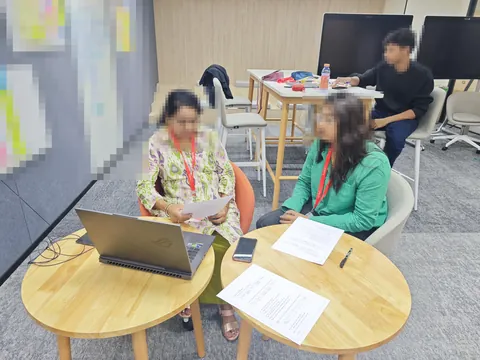
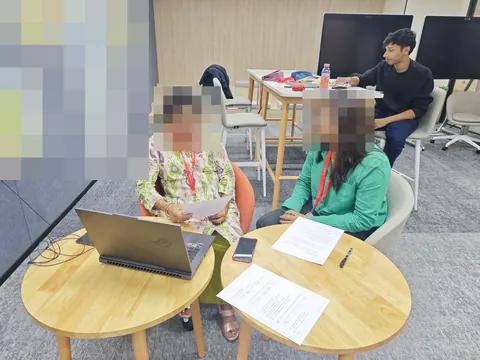
Live project photos: reveal Aritra in the room photo, coarser blur on others

diff --git a/scripts/stage2_publish.py b/scripts/stage2_publish.py
@@ -187,7 +187,7 @@ REBIT_PHOTOS = [  # key, file, crop (rel x0,y0,x1,y1; square rel box = 4:3 crop)
  ('think-aloud-close', '1736696037823.jpg', (0.05, 0.1, 0.95, 1.0), [(0.40, 0.05, 0.66, 0.34), (0.05, 0.40, 0.37, 0.75), (0.50, 0.0, 0.68, 0.22), (0.70, 0.34, 0.95, 0.90)], 'Close view of Aritra pointing at the tablet while explaining what he sees'),
  # 'at-the-laptop' (1736696037441.jpg) is parked: whiteboard heading and lanyard print were still readable after blurring. Re-add only after checking the result.
  ('facilitating', 'IMG_20250115_105406.jpg', (0.0, 0.08, 0.7, 0.78), [(0.27, 0.07, 0.42, 0.21), (0.53, 0.25, 0.72, 0.48), (0.2, 0.64, 0.32, 0.76)], 'Aritra, as facilitator, guiding a participant through the task on a laptop'),
- ('the-room', '1736785934348.jpg', (0.0, 0.0, 1.0, 1.0), [(0.32, 0.24, 0.46, 0.42), (0.63, 0.25, 0.78, 0.42), (0.78, 0.07, 0.90, 0.22), (0.0, 0.0, 0.31, 0.5)], 'The session space: a moderator and a participant at a table, the rest of the team working nearby'),
+ ('the-room', '1736785934348.jpg', (0.0, 0.0, 1.0, 1.0), [(0.32, 0.24, 0.46, 0.42), (0.63, 0.25, 0.78, 0.42), (0.0, 0.0, 0.31, 0.5)], 'The session space: a moderator and a participant at a table, with Aritra working nearby'),
 ]
 def rebit_photo(f, crop, boxes):
     from PIL import ImageOps

diff --git a/site/src/content/work/live-project-ux-research.md b/site/src/content/work/live-project-ux-research.md
@@ -41,8 +41,8 @@ It was a **mixed-methods, moderated usability study**, run both in person and re
 </figure>
 
 <figure class="photo">
-<a href="../../img/live-project-ux-research/ph-the-room.webp" data-lb data-lb-group="live-project" data-lb-src="../../img/live-project-ux-research/ph-the-room.webp" data-lb-alt="The session space: a moderator and a participant at a table, the rest of the team working nearby" data-lb-title="The session space" data-lb-meta="Live UX research project"><img src="../../img/live-project-ux-research/ph-the-room-sm.webp" srcset="../../img/live-project-ux-research/ph-the-room-sm.webp 480w, ../../img/live-project-ux-research/ph-the-room.webp 1100w" sizes="(min-width: 960px) 760px, 92vw" alt="The session space: a moderator and a participant at a table, the rest of the team working nearby" width="1100" height="825" loading="lazy" /></a>
-<figcaption>The room where sessions ran: a moderator and a participant at a table, the team working close by. Faces are blurred.</figcaption>
+<a href="../../img/live-project-ux-research/ph-the-room.webp" data-lb data-lb-group="live-project" data-lb-src="../../img/live-project-ux-research/ph-the-room.webp" data-lb-alt="The session space: a moderator and a participant at a table, with Aritra working nearby" data-lb-title="The session space" data-lb-meta="Live UX research project"><img src="../../img/live-project-ux-research/ph-the-room-sm.webp" srcset="../../img/live-project-ux-research/ph-the-room-sm.webp 480w, ../../img/live-project-ux-research/ph-the-room.webp 1100w" sizes="(min-width: 960px) 760px, 92vw" alt="The session space: a moderator and a participant at a table, with Aritra working nearby" width="1100" height="825" loading="lazy" /></a>
+<figcaption>The room where sessions ran: a moderator and a participant at a table, and me working close by, ready to take notes. Other people's faces are blurred.</figcaption>
 </figure>
 
 ## My part
